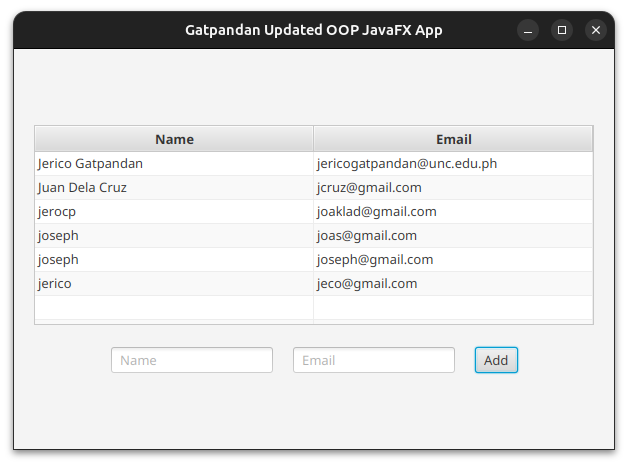
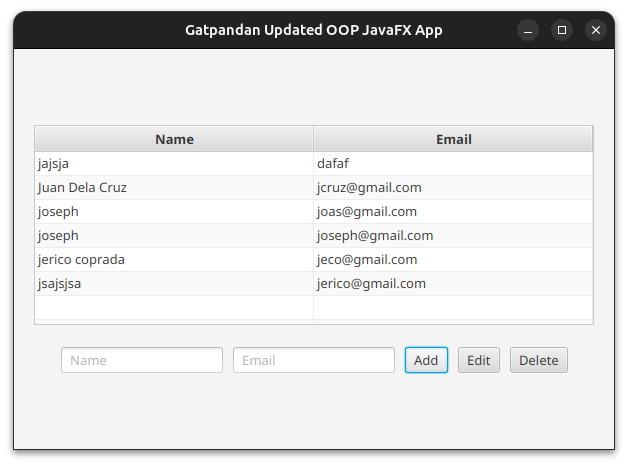
Add user management features: implement add, edit, and delete functionalities in MainController and update main-view.fxml

diff --git a/src/main/java/com/example/oop_updated_javafx/MainController.java b/src/main/java/com/example/oop_updated_javafx/MainController.java
@@ -8,9 +8,9 @@ import javafx.fxml.FXML;
 import javafx.scene.control.*;
 import javafx.scene.control.cell.TextFieldTableCell;
 
-import java.io.IOException;
 import java.sql.Connection;
 import java.sql.ResultSet;
+import java.sql.SQLException;
 
 public class MainController {
 
@@ -29,19 +29,13 @@ public class MainController {
         buildTable();
         editCell();
     }
-    public void addUser() throws IOException {
 
+    public void onAddUser() {
         if (!nameField.getText().isBlank() && !emailField.getText().isBlank()) {
-            DatabaseConnection connectNow = new DatabaseConnection();
-            Connection connectDB = connectNow.getConnection();
+            String name = nameField.getText();
+            String email = emailField.getText();
 
-            String insertValues = "INSERT INTO Users(name, email) VALUES ('"+ nameField.getText() + "','" + emailField.getText() + "')";
-
-            try {
-                connectDB.createStatement().executeUpdate(insertValues);
-            } catch (Exception e) {
-                e.printStackTrace();
-            }
+            insertUser(name, email);
 
             nameField.clear();
             emailField.clear();
@@ -56,30 +50,138 @@ public class MainController {
         }
     }
 
-    public void buildTable() {
-       DatabaseConnection connectNow = new DatabaseConnection();
-       Connection connectDB = connectNow.getConnection();
+    public void onEditUser() {
+        User selected = TableContainer.getSelectionModel().getSelectedItem();
+        if (selected == null) {
+            Alert alert = new Alert(Alert.AlertType.WARNING);
+            alert.setTitle("No Selection");
+            alert.setHeaderText(null);
+            alert.setContentText("Please select a user in the table to edit.");
+            alert.showAndWait();
+            return;
+        }
 
-       String UserViewQuery = "SELECT name, email FROM Users";
+        if (nameField.getText().isBlank() || emailField.getText().isBlank()) {
+            Alert alert = new Alert(Alert.AlertType.WARNING);
+            alert.setTitle("Input Error");
+            alert.setHeaderText(null);
+            alert.setContentText("Please fill in both Name and Email fields to edit.");
+            alert.showAndWait();
+            return;
+        }
+
+        String oldName = selected.getName();
+        String oldEmail = selected.getEmail();
+        String newName = nameField.getText();
+        String newEmail = emailField.getText();
+
+        boolean success = updateUserInDatabase(oldName, oldEmail, newName, newEmail);
+        if (success) {
+            selected.setName(newName);
+            selected.setEmail(newEmail);
+            nameField.clear();
+            emailField.clear();
+            buildTable();
+        }
+    }
+
+    public void onDeleteUser() {
+        User selected = TableContainer.getSelectionModel().getSelectedItem();
+        if (selected == null) {
+            Alert alert = new Alert(Alert.AlertType.WARNING);
+            alert.setTitle("No Selection");
+            alert.setHeaderText(null);
+            alert.setContentText("Please select a user in the table to delete.");
+            alert.showAndWait();
+            return;
+        }
+
+        Alert confirmation = new Alert(Alert.AlertType.CONFIRMATION);
+        confirmation.setTitle("Delete User");
+        confirmation.setHeaderText(null);
+        confirmation.setContentText("Are you sure you want to delete the selected user?");
+
+        if (confirmation.showAndWait().orElse(ButtonType.CANCEL) != ButtonType.OK) {
+            return;
+        }
+
+        DatabaseConnection connectNow = new DatabaseConnection();
+        Connection connectDB = connectNow.getConnection();
+
+        String deleteQuery = "DELETE FROM Users WHERE name = '" + selected.getName() + "' AND email = '" + selected.getEmail() + "'";
+
+        try {
+            connectDB.createStatement().executeUpdate(deleteQuery);
+            buildTable();
+        } catch (Exception e) {
+            e.printStackTrace();
+            Alert alert = new Alert(Alert.AlertType.ERROR);
+            alert.setTitle("Delete Error");
+            alert.setHeaderText(null);
+            alert.setContentText("An error occurred while deleting the user.");
+            alert.showAndWait();
+        }
+    }
+
+    // Helper to insert a new user into the database
+    private void insertUser(String name, String email) {
+        DatabaseConnection connectNow = new DatabaseConnection();
+        Connection connectDB = connectNow.getConnection();
+
+        String insertValues = "INSERT INTO Users(name, email) VALUES ('" + name + "','" + email + "')";
+
+        try {
+            connectDB.createStatement().executeUpdate(insertValues);
+        } catch (Exception e) {
+            e.printStackTrace();
+        }
+    }
+
+    // Helper to update a user in the database based on old values
+    private boolean updateUserInDatabase(String oldName, String oldEmail, String newName, String newEmail) {
+        DatabaseConnection connectNow = new DatabaseConnection();
+        Connection connectDB = connectNow.getConnection();
+
+        String updateQuery = "UPDATE Users SET name = '" + newName + "', email = '" + newEmail + "' WHERE name = '" + oldName + "' AND email = '" + oldEmail + "'";
+
+        try {
+            int affected = connectDB.createStatement().executeUpdate(updateQuery);
+            return affected > 0;
+        } catch (SQLException e) {
+            e.printStackTrace();
+            Alert alert = new Alert(Alert.AlertType.ERROR);
+            alert.setTitle("Update Error");
+            alert.setHeaderText(null);
+            alert.setContentText("An error occurred while updating the user.");
+            alert.showAndWait();
+            return false;
+        }
+    }
+
+    public void buildTable() {
+        DatabaseConnection connectNow = new DatabaseConnection();
+        Connection connectDB = connectNow.getConnection();
+
+        String UserViewQuery = "SELECT name, email FROM Users";
 
         ObservableList<User> data = FXCollections.observableArrayList();
 
-       try {
-           ResultSet resultSet = connectDB.createStatement().executeQuery(UserViewQuery);
-              while (resultSet.next()) {
+        try {
+            ResultSet resultSet = connectDB.createStatement().executeQuery(UserViewQuery);
+            while (resultSet.next()) {
                 data.add(new User(
-                          resultSet.getString("name"),
-                          resultSet.getString("email")
+                        resultSet.getString("name"),
+                        resultSet.getString("email")
                 ));
-              }
-              nameColumn.setCellValueFactory(cellData -> cellData.getValue().nameProperty());
-              emailColumn.setCellValueFactory(cellData -> cellData.getValue().emailProperty());
-              TableContainer.setItems(data);
+            }
+            nameColumn.setCellValueFactory(cellData -> cellData.getValue().nameProperty());
+            emailColumn.setCellValueFactory(cellData -> cellData.getValue().emailProperty());
+            TableContainer.setItems(data);
 
-       } catch (Exception e) {
-              e.printStackTrace();
-              System.out.println("Error on Building Data");
-       }
+        } catch (Exception e) {
+            e.printStackTrace();
+            System.out.println("Error on Building Data");
+        }
     }
 
     public void editCell() {
@@ -88,41 +190,32 @@ public class MainController {
         nameColumn.setCellFactory(TextFieldTableCell.forTableColumn());
         nameColumn.setOnEditCommit(event -> {
             User user = event.getRowValue();
+            String oldName = user.getName();
+            String oldEmail = user.getEmail();
             String newName = event.getNewValue();
-            user.setName(newName);
 
-            DatabaseConnection connectNow = new DatabaseConnection();
-            Connection connectDB = connectNow.getConnection();
-
-            String updateQuery = "UPDATE Users SET name = '" + newName + "' WHERE email = '" + user.getEmail() + "'";
-
-            try {
-                connectDB.createStatement().executeUpdate(updateQuery);
-            } catch (Exception e) {
-                e.printStackTrace();
+            boolean success = updateUserInDatabase(oldName, oldEmail, newName, oldEmail);
+            if (success) {
+                user.setName(newName);
+            } else {
+                // revert change in UI
+                TableContainer.refresh();
             }
         });
 
         emailColumn.setCellFactory(TextFieldTableCell.forTableColumn());
         emailColumn.setOnEditCommit(event -> {
             User user = event.getRowValue();
+            String oldName = user.getName();
+            String oldEmail = user.getEmail();
             String newEmail = event.getNewValue();
-            user.setEmail(newEmail);
 
-            DatabaseConnection connectNow = new DatabaseConnection();
-            Connection connectDB = connectNow.getConnection();
-
-            String updateQuery = "UPDATE Users SET email = '" + newEmail + "' WHERE name = '" + user.getName() + "'";
-
-            try {
-                connectDB.createStatement().executeUpdate(updateQuery);
-            } catch (Exception e) {
-                e.printStackTrace();
+            boolean success = updateUserInDatabase(oldName, oldEmail, oldName, newEmail);
+            if (success) {
+                user.setEmail(newEmail);
+            } else {
+                TableContainer.refresh();
             }
         });
     }
-
-
-
-
 }

diff --git a/README.md b/README.md
@@ -17,6 +17,7 @@
 |-----------------------------------------------------------|----------------------------------------------------------------|
 | ![Before](src/main/resources/Screenshots/Screenshot1.png) | ![After](src/main/resources/Screenshots/Screenshot1-after.png) |
 | ![Before](src/main/resources/Screenshots/Screenshot2.png) | ![After](src/main/resources/Screenshots/Screenshot2-after.png) |
+| ![Before](src/main/resources/Screenshots/Screenshot3.png) | ![After](src/main/resources/Screenshots/Screenshot3-after.png) |
 
 ### Scene Builder View
 
